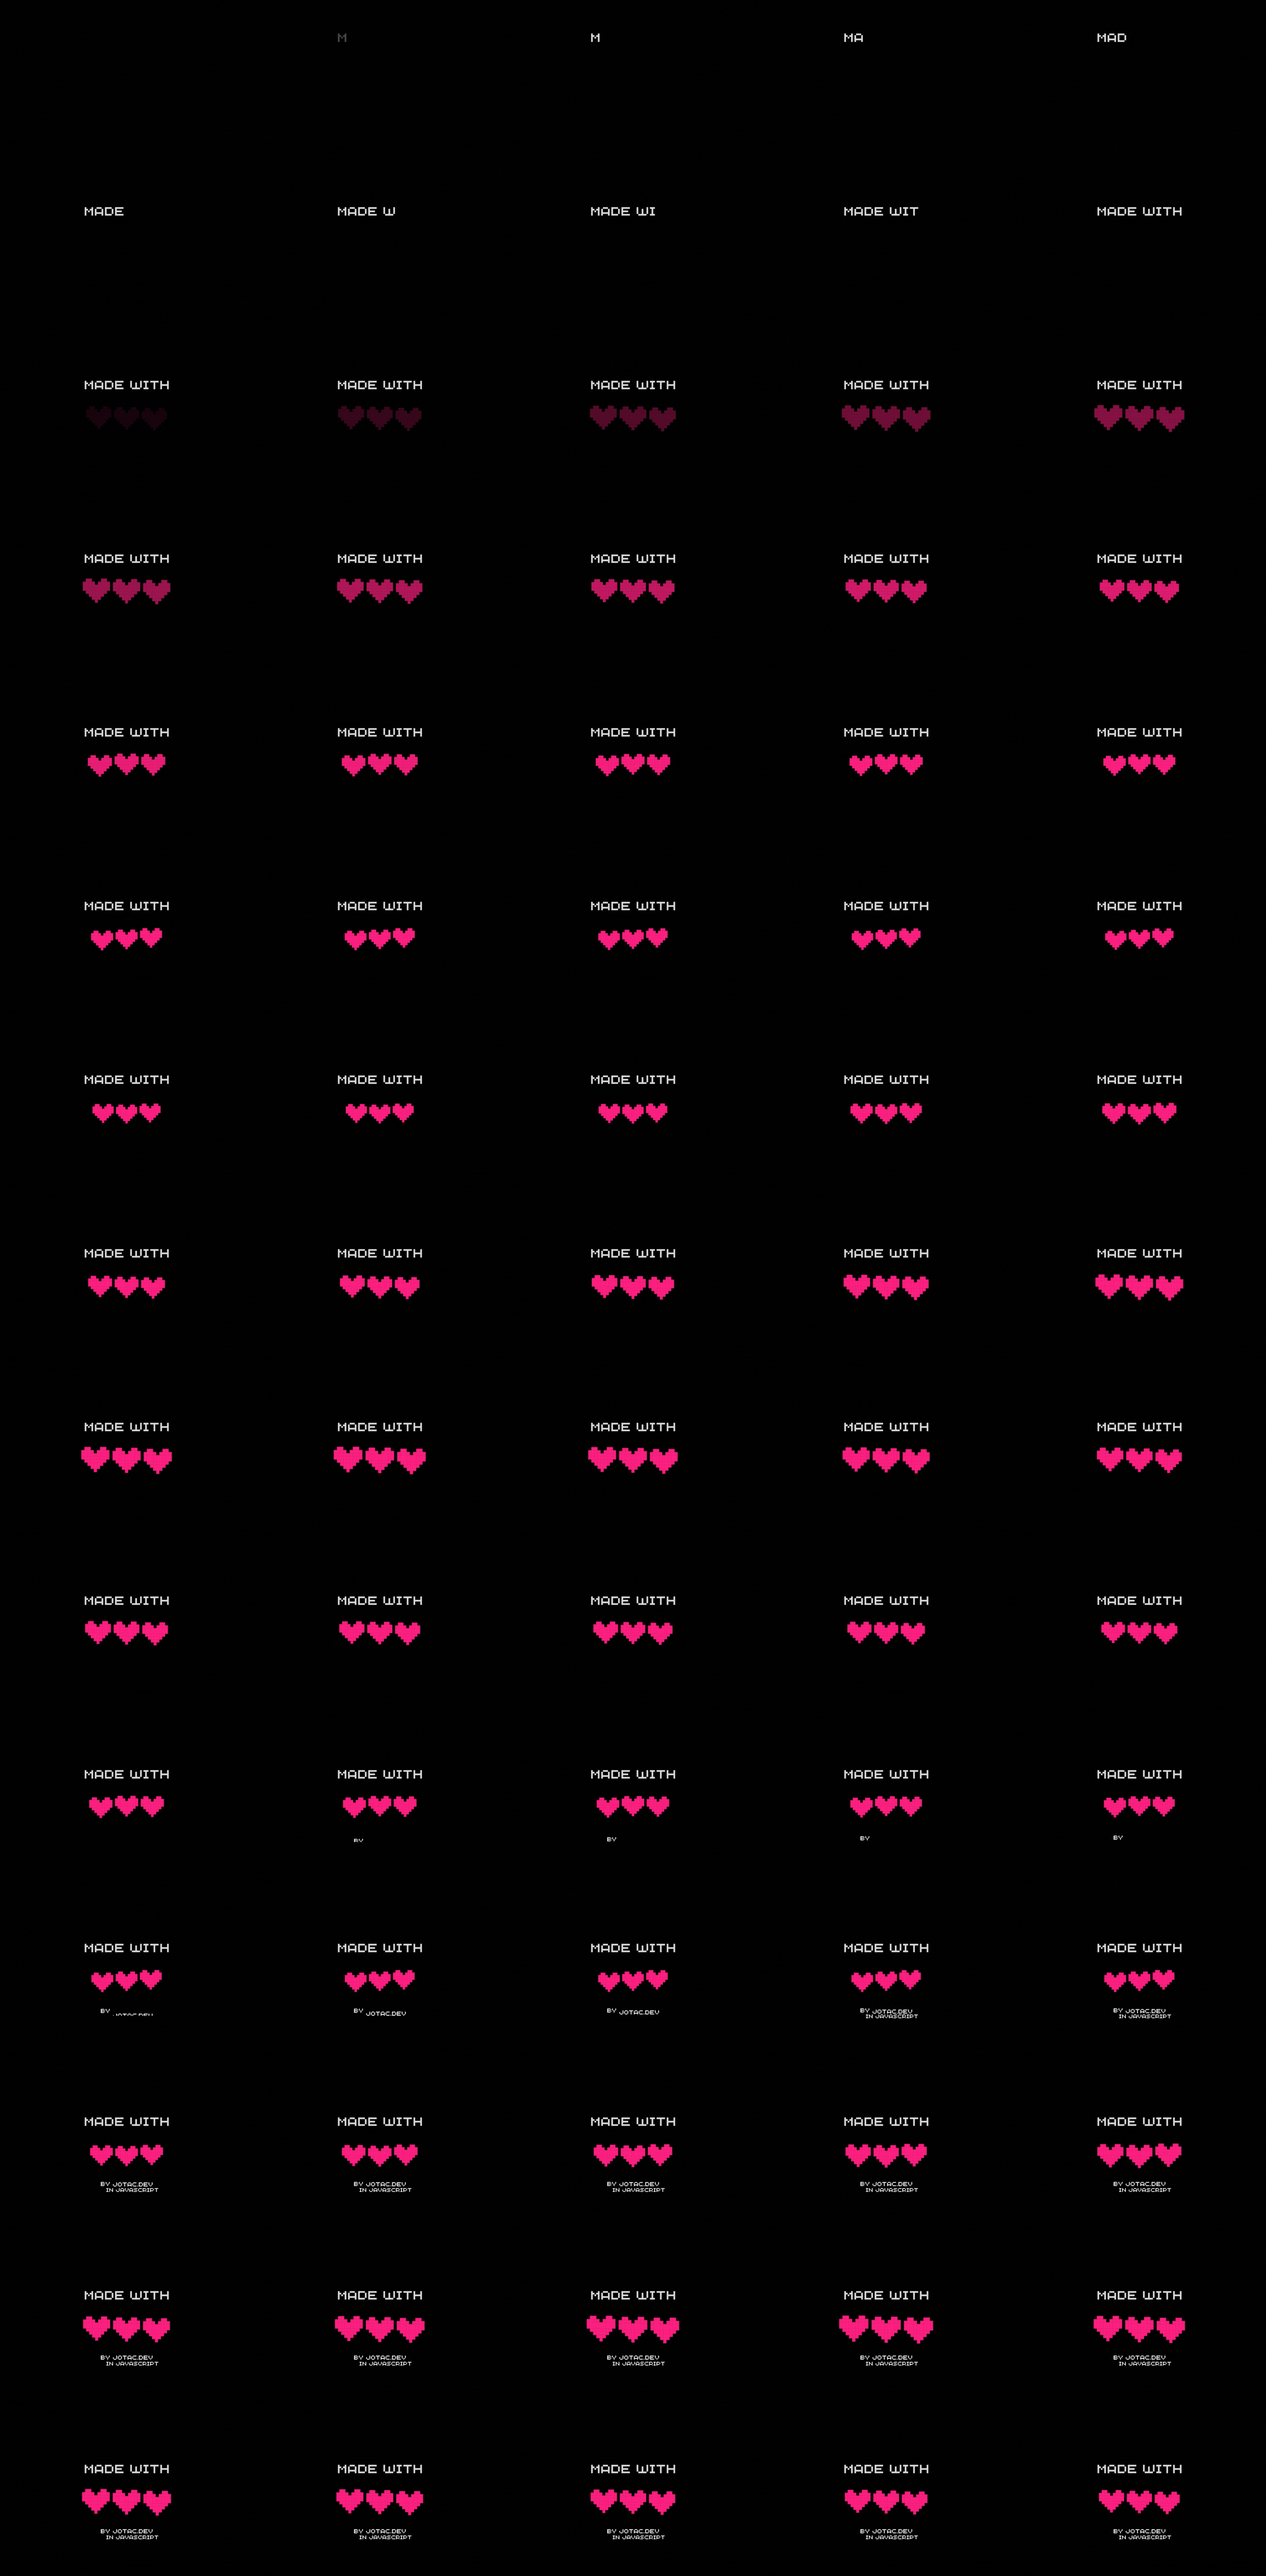
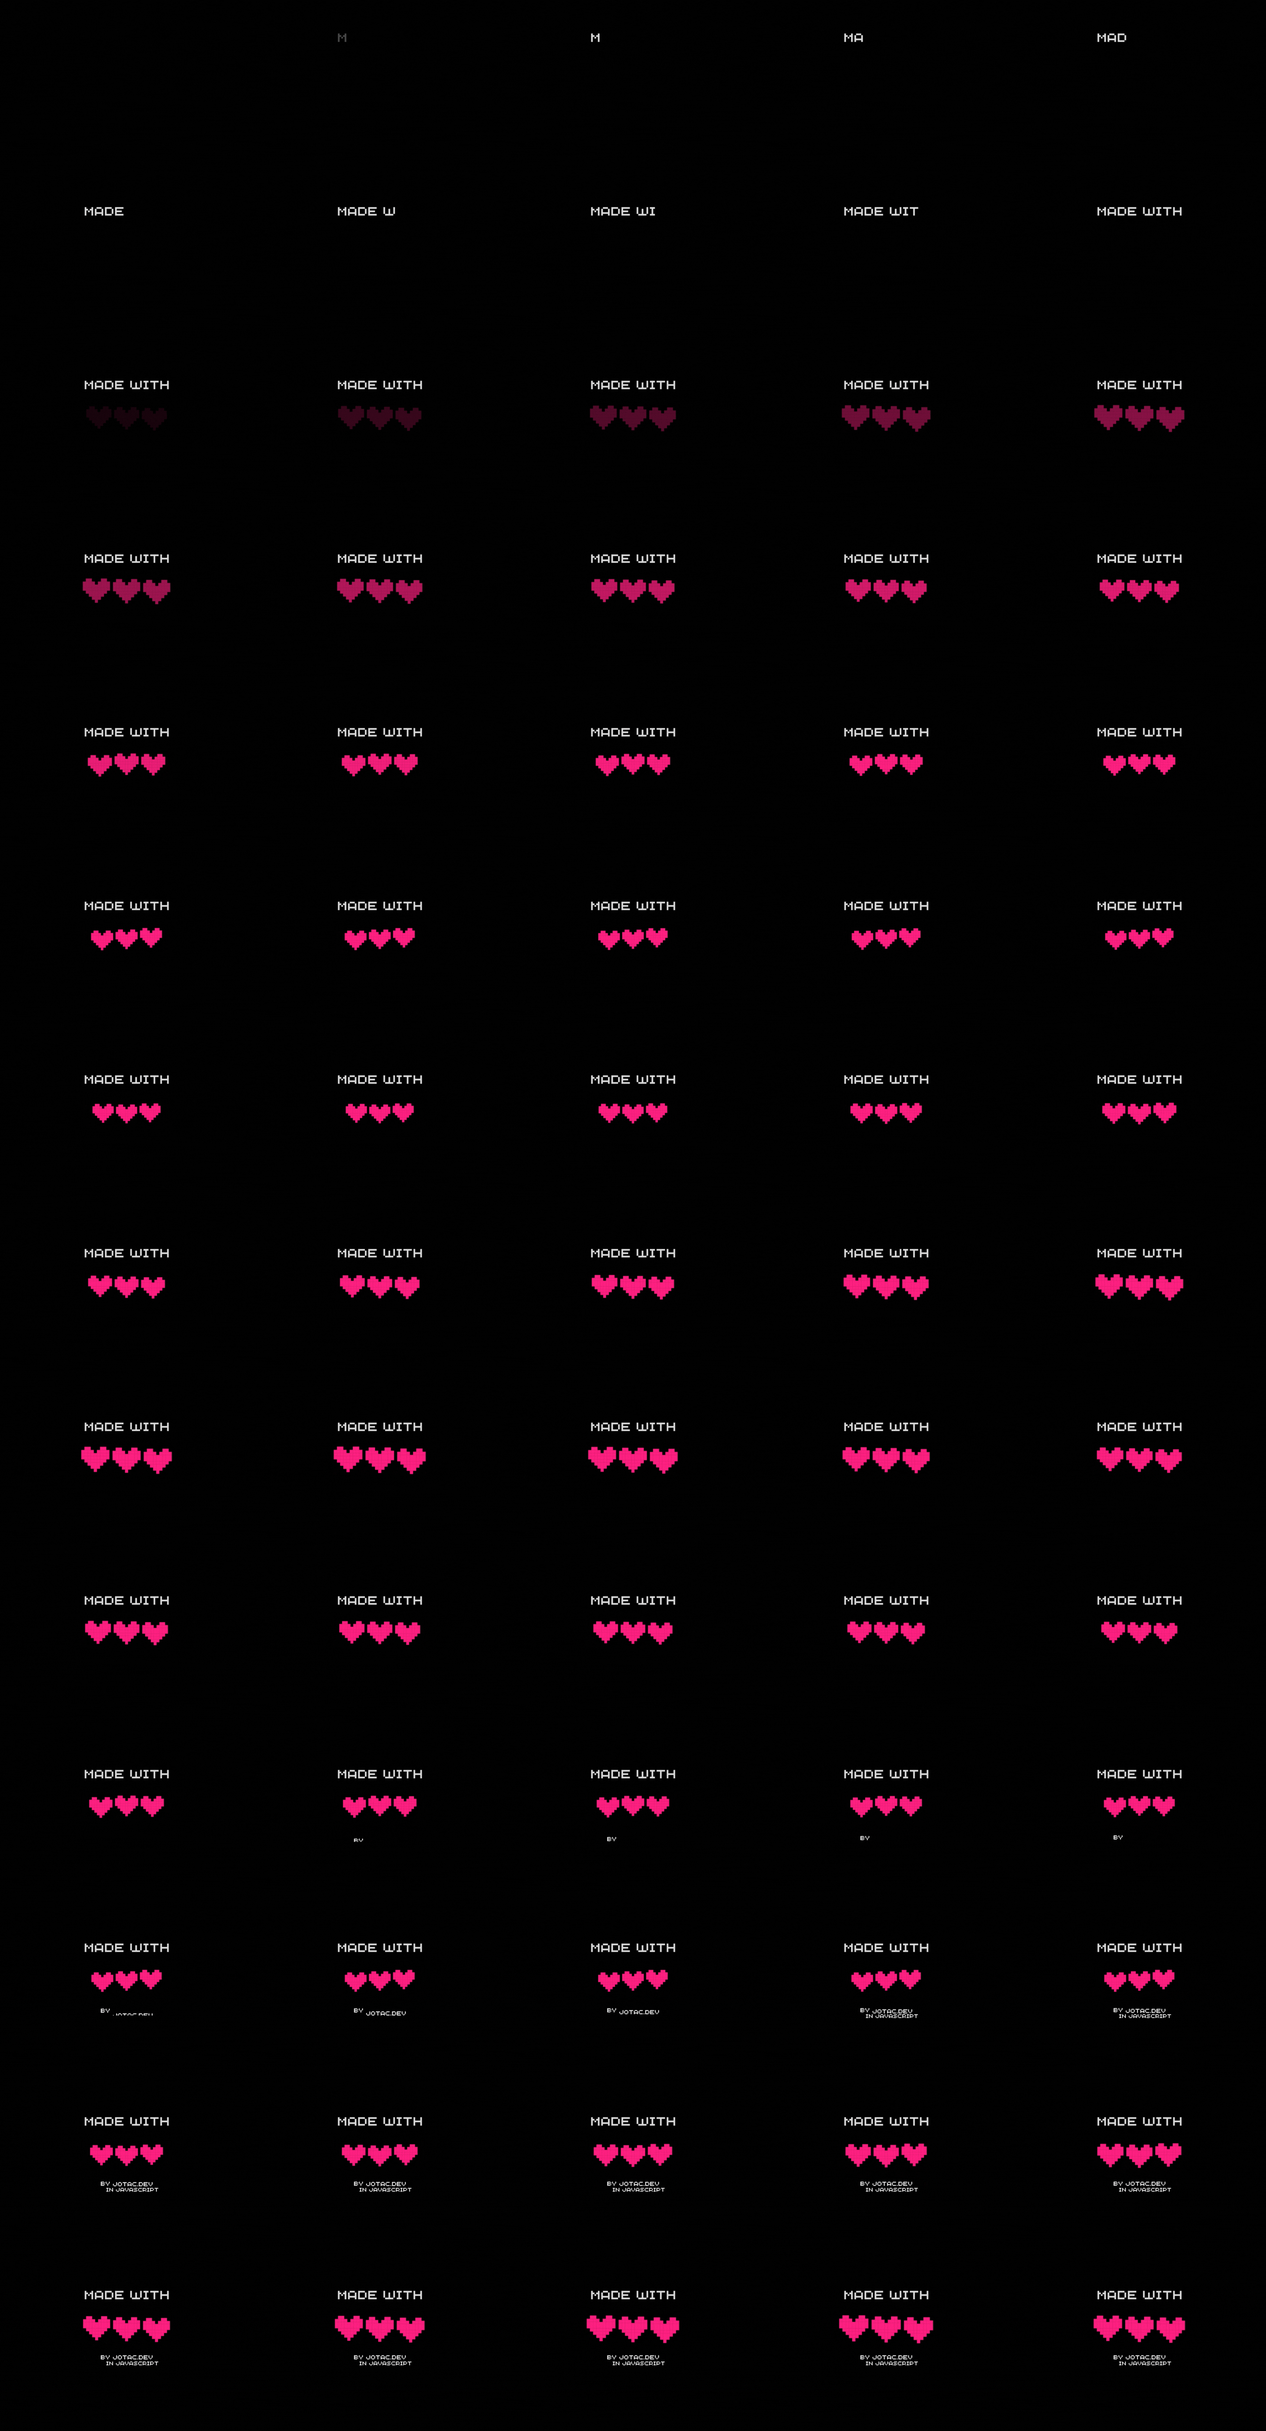
update front

diff --git a/src/index.html b/src/index.html
@@ -1,15 +1,24 @@
 <!DOCTYPE html>
-<html lang="en">
+<html lang="es">
   <head>
     <meta charset="UTF-8" />
     <title>Pixel Run</title>
     <script src="bundle.js" defer></script>
+    <style>
+      body {
+        margin: 0;
+        padding: 0;
+        overflow-x: hidden;
+      }
+
+      canvas {
+        display: block;
+      }
+    </style>
   </head>
-  <body class="w-full h-screen flex flex-col items-center bg-gray-900">
-    <!-- Navbar -->
-    <nav
-      class="fixed top-0 left-0 w-full bg-gray-800 text-white p-4 flex justify-between items-center z-50"
-    >
+  <body class="bg-gray-900">
+    <!-- Navbar fija -->
+    <nav class="fixed top-0 left-0 z-50 w-full flex justify-between bg-gray-800 text-white p-4">
       <div class="text-lg font-bold">Pixel Run</div>
       <div class="flex space-x-4">
         <a href="#" class="hover:text-gray-400">Inicio</a>
@@ -18,22 +27,26 @@
       </div>
     </nav>
 
-    <div
-      id="phaser-game"
-      class="relative mt-20 w-[720px] h-[480px]"
-    >
-      <!-- HUD o UI dentro del canvas -->
-      <div
-        id="ui"
-        class="absolute mt-20 top-20 w-full h-full pointer-events-none bg-transparent"
-      >
-        <!-- VIDA en la esquina superior derecha -->
-        <div
-          class="absolute top-2 right-2 bg-transparent text-white px-3 py-1 rounded text-[1.2rem] font-bold"
-        >
-          Vidas: <span id="vida"></span>
+    <!-- Contenedor centrado del juego -->
+    <div class="flex justify-center items-center pt-24">
+      <div id="phaser-game" class="relative w-[720px] h-[480px] border-2 border-white shadow-lg">
+        <!-- Phaser añadirá el canvas aquí automáticamente -->
+
+        <!-- UI superpuesta -->
+        <div id="ui" class="absolute top-0 left-0 w-full h-full pointer-events-none bg-transparent">
+          <!-- Vidas -->
+          <div class="absolute top-2 right-2 bg-transparent text-white px-3 py-1">
+            <span id="vida" class="flex gap-2 justify-center items-center"></span>
+          </div>
         </div>
       </div>
     </div>
+
+    <!-- Footer -->
+    <footer class="text-white text-center mt-8">
+      <p>Desarrollado por José carlos Vélez</p>
+      <p>&copy; 2025 Pixel Run. Todos los derechos reservados.</p>
+      <p class="mt-2">Hecho con ❤ usando Phaser y Tailwind CSS</p>
+    </footer>
   </body>
 </html>

diff --git a/src/ui/utils.js b/src/ui/utils.js
@@ -1,8 +1,22 @@
 // src/utils/uiUtils.js
 export function actualizarVidaUI(vida) {
-    const vidaSpan = document.getElementById("vida");
-    if (vidaSpan) {
-      vidaSpan.textContent = vida;
-    }
-  }
-  
+   const vidaContainer = document.getElementById("vida");
+   if (!vidaContainer) return;
+ 
+   // Limpiar corazones anteriores
+   vidaContainer.innerHTML = "";
+ 
+   // Limitar vida a un máximo de 3
+   const vidasAMostrar = Math.min(vida, 3);
+ 
+   // Crear los corazones según la cantidad de vida
+   for (let i = 0; i < vidasAMostrar; i++) {
+     const corazon = document.createElement("img");
+     corazon.setAttribute("src", "assets/vida.png");
+     corazon.setAttribute("alt", "Vida");
+     corazon.setAttribute("width", "32"); // Puedes ajustar tamaño si lo necesitas
+     corazon.setAttribute("height", "32");
+     vidaContainer.appendChild(corazon);
+   }
+ }
+ 

diff --git a/src/main.js b/src/main.js
@@ -2,11 +2,12 @@ import MainScene from "./scenes/MainScene.js";
 import BootScene from "./scenes/BootScene.js";
 import GameOverScene from "./scenes/GameOverScene.js";
 import './style/style.css';
+import PreloadScene from "./scenes/Preload.js";
 
 
 const config = {
   type: Phaser.AUTO,
-  parent: 'game-game',
+  parent: 'phaser-game',
   width: 720,
   height: 480,
   pixelArt: true,
@@ -16,11 +17,10 @@ const config = {
       debug: false,
     }
   },
-  scene: [BootScene,MainScene,GameOverScene],
+  scene: [PreloadScene,BootScene,MainScene,GameOverScene],
 };
 
-const game = new Phaser.Game(config);
-
-
-
+window.addEventListener('DOMContentLoaded', () => {
+  new Phaser.Game(config);
+});
 

diff --git a/src/entities/Enemy.js b/src/entities/Enemy.js
@@ -106,15 +106,13 @@ export class Enemy extends Phaser.Physics.Arcade.Sprite {
     this.setVelocityX(this.speed * this.direction);
     this.anims.play("enemy-walk", true);
     this.flipX = this.direction < 0;
-
-    if (this.body.blocked.right || this.body.blocked.left) {
-      this.direction *= -1;
-    }
+    console.log("direccion:" + this.direction);
+    
 
     const distanceFromStart = this.x - this.startX;
     if (Math.abs(distanceFromStart) >= this.patrolDistance) {
       this.direction *= -1;
-    }
+    } 
   }
 
   destroy(fromScene) {

diff --git a/src/scenes/Preload.js b/src/scenes/Preload.js
@@ -40,12 +40,11 @@ export default class PreloadScene extends Phaser.Scene {
             logo.play('logoAnim2');   // Reproduce la segunda animación
         });
 
+        
+
         // Y cuando termina la segunda animación, cambiamos de escena
         logo.on('animationcomplete-logoAnim2', () => {
             this.scene.start("BootScene");
         });
     }
 }
-
-
-

diff --git a/src/entities/Player.js b/src/entities/Player.js
@@ -80,6 +80,9 @@ export class Player extends Phaser.Physics.Arcade.Sprite {
     if (this.isDead || !this.active || !this.body) return;
 
     // Actualizar vidas en la UI
+    // no actualizar si no hay cambios
+    
+
     actualizarVidaUI(this.lifePoints);
     
     const onGround = this.body?.onFloor?.() || this.body?.touching?.down || false;
